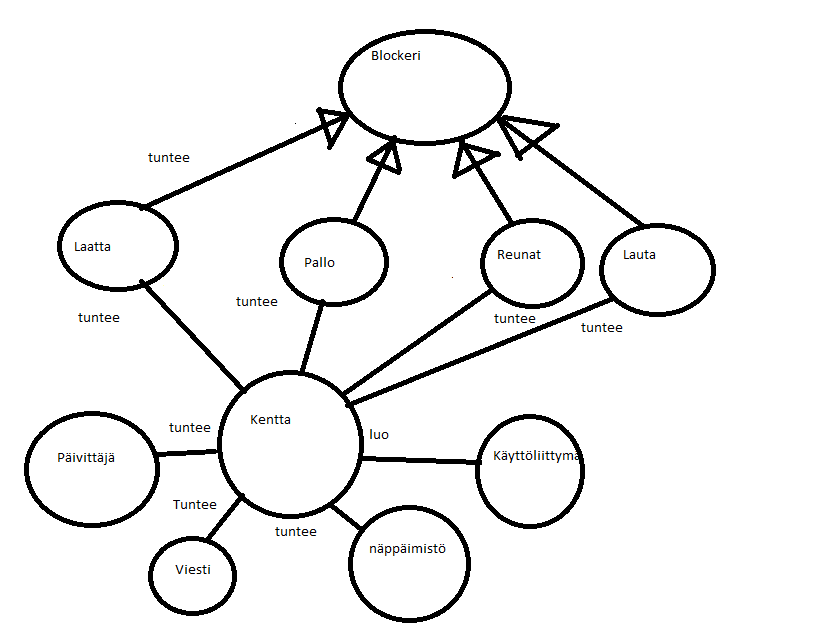
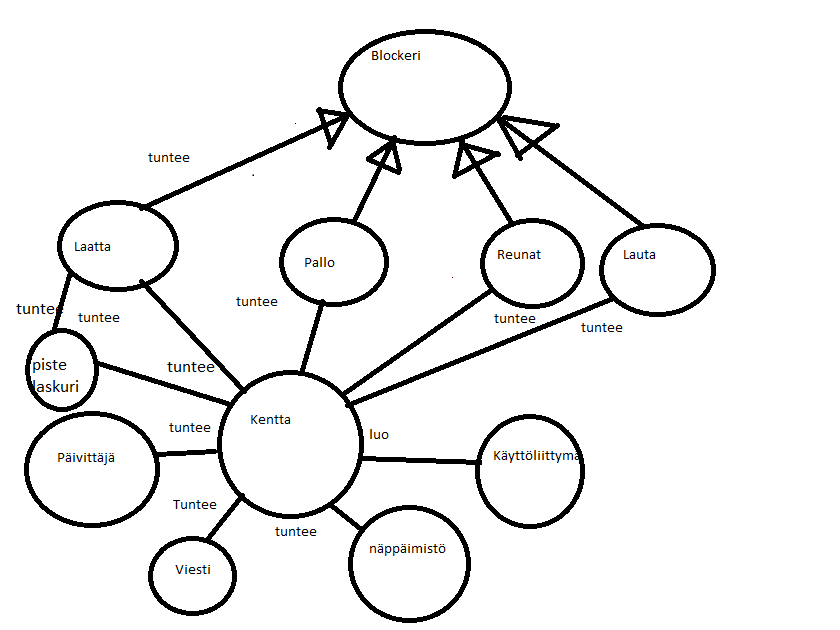
luokkakaavion päivitys

Changed region(s): [[0.0, 0.4222, 0.2476, 0.6635], [0.2476, 0.6333, 0.2786, 0.6635]]

diff --git a/demolisher/src/main/java/kayttoliittyma/Kentta.java b/demolisher/src/main/java/kayttoliittyma/Kentta.java
@@ -32,9 +32,9 @@ public class Kentta extends JPanel {
      * Alustaa kentän
      * @param kenttaNro alustettavan kentän numero 
      */
-    public void alusta(int kenttaNro){
+    public void alusta(int kenttaNro) {
         this.kenttaNro = kenttaNro;
-        if(laskuri == null || peliOhi){
+        if (laskuri == null || peliOhi) {
             laskuri = new PisteLaskuri();
         }
         
@@ -59,11 +59,11 @@ public class Kentta extends JPanel {
         peliOhi = false;
         kenttaLapi = false;
         viesti = new Viesti(this);
-        if(paivittaja == null){
+        if (paivittaja == null) {
             paivittaja = new Paivittaja(this);
             timer = new Timer();
             timer.scheduleAtFixedRate(paivittaja, 100, 12);  
-        }else{
+        } else {
             paivittaja.setKentta(this);
             this.repaint();
         }   
@@ -73,7 +73,7 @@ public class Kentta extends JPanel {
         return blockerit;
     }
     
-    public int getKenttaNro(){
+    public int getKenttaNro() {
         return this.kenttaNro;
     }
   
@@ -89,11 +89,11 @@ public class Kentta extends JPanel {
         return this.viesti;
     }    
     
-    public boolean getPeliOhi(){
+    public boolean getPeliOhi() {
         return this.peliOhi;
     }
     
-    public boolean kenttaVoitettu(){
+    public boolean kenttaVoitettu() {
         return this.kenttaLapi;
     }    
     
@@ -101,7 +101,7 @@ public class Kentta extends JPanel {
      * Metodi aloittaa pelin/jatkaa peliä
      */
     public void start() {     
-        if(!peliOhi){
+        if (!peliOhi) {
             paalla = true;
             viesti.paivitaViesti();             
         }

diff --git a/demolisher/src/main/java/sovelluslogiikka/Paivittaja.java b/demolisher/src/main/java/sovelluslogiikka/Paivittaja.java
@@ -29,7 +29,7 @@ public class Paivittaja extends TimerTask {
      * Setterimetodi testejä varten
      * @param blockerit lista blockereita
      */
-    public void setBlockerit(ArrayList<Blockeri> blockerit){
+    public void setBlockerit(ArrayList<Blockeri> blockerit) {
         this.blockerit = blockerit;
     }
     
@@ -38,19 +38,19 @@ public class Paivittaja extends TimerTask {
      */
     public void poistaDeaktiivisetLaatat() {
         ArrayList<Blockeri> poistot = new ArrayList<>();
-        for(Blockeri blockeri:blockerit){
-            if(blockeri.getClass().equals(Laatta.class)){
+        for ( Blockeri blockeri:blockerit) {
+            if (blockeri.getClass().equals(Laatta.class)) {
                 Laatta laatta = (Laatta) blockeri;
-                if(!laatta.aktiivinen()){
+                if (!laatta.aktiivinen()) {
                     poistot.add(blockeri);
                 }
             }
             
         }
-        for(Blockeri blockeri : poistot){
+        for (Blockeri blockeri : poistot) {
             blockerit.remove(blockeri);
         }
-        if(blockerit.size() == 1){
+        if (blockerit.size() == 1) {
             kentta.kaikkiLaatatTuhottu();
         }
     }
@@ -71,7 +71,7 @@ public class Paivittaja extends TimerTask {
             lauta.tormaa(pallo);
             kentta.repaint();    
         } 
-        if(pallo.tarkistaPelinLoppuminen()){
+        if (pallo.tarkistaPelinLoppuminen()) {
             kentta.lopetaPeli();
         }        
     }

diff --git a/demolisher/src/main/java/sovelluslogiikka/Viesti.java b/demolisher/src/main/java/sovelluslogiikka/Viesti.java
@@ -14,7 +14,7 @@ public class Viesti {
         this.viesti = "Aloita peli painamalla s";
     }
     
-    public String getViesti(){
+    public String getViesti() {
         return this.viesti;
     }    
     
@@ -41,7 +41,7 @@ public class Viesti {
     /**
      * Metodi asettaa viestin kenttä läpäisty kun laatat on tuhottu
      */
-    public void kenttaLapi(){
+    public void kenttaLapi() {
         viesti = "Kenttä läpäisty! Paina n siirtyäksesi seuraavaan kenttään";
     }
         

diff --git a/demolisher/src/main/java/sovelluslogiikka/Laatta.java b/demolisher/src/main/java/sovelluslogiikka/Laatta.java
@@ -37,7 +37,7 @@ public class Laatta implements Blockeri {
      * @param laatu Onko kyseessä vaaka- vai pystysuuntsinen törmäys
      * @param pallo Pallo, joka osui tähän laattaan.
      */
-    public void deaktivoi(boolean laatu, Pallo pallo){
+    public void deaktivoi(boolean laatu, Pallo pallo) {
         pallo.kaanny(laatu);
         aktiivinen = false;
         laskuri.kasvataPisteita();

diff --git a/demolisher/src/main/java/sovelluslogiikka/PisteLaskuri.java b/demolisher/src/main/java/sovelluslogiikka/PisteLaskuri.java
@@ -7,11 +7,11 @@ import java.awt.Graphics;
  */
 public class PisteLaskuri {
     private int pisteet;
-    public PisteLaskuri(){
+    public PisteLaskuri() {
         pisteet = 0;
     }
     
-    public int getPisteet(){
+    public int getPisteet() {
         return pisteet;
     }
     

diff --git a/documentaatio/tuntikirjanpito.md b/documentaatio/tuntikirjanpito.md
@@ -37,4 +37,4 @@ Pistelaskuri lisätty. Peli tunnistaa milloin pallo menee kentän alaosasta yli.
 Kentän vaihto ja alusta aloittaminen. 3h
 
 25.11.2015
-Testien päivittämistä ja javadockeja
+Testien päivittämistä ja javadockeja. 2h
